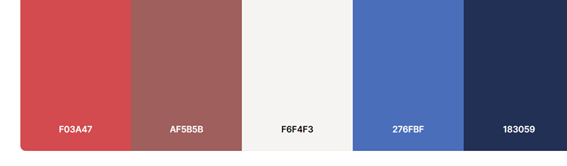
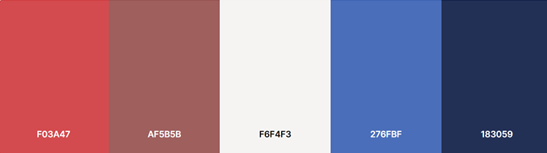
add readme file

diff --git a/README.md b/README.md
@@ -4,6 +4,7 @@ The Chuckles Comedy Club website is an information website, for a comedy club sp
 This website is designed to provide information about the comedy club such as which acts will be performing, opening hours and how to find the venue
 
 ![am-i-responsive](assets/readme-images/am-i-responsive.png)
+
 Visit the deployed site here: [Chuckles Comedy Club](<https://gkicks.github.io/chuckles-comedy-club/>)
 
 # Contents
@@ -84,3 +85,364 @@ Chuckles Comedy Club is a venue where the USP is that the performers are all Ame
 * I began with a colour pallette from the website Coolors that reflected these colours: 
 
 ![Coolers red to blue nine colour image](assets/readme-images/coolers-img-1.png)
+
+* I wanted the white to be an off white, to make the website easier on the eye, so again chose a colour from the coolers website. I took this from another red / blue pallette so this would compliment the red and blue shades already chosen
+
+![Coolers red to blue five colour image](assets/readme-images/coolers-img-2.png)
+
+## Typography
+
+* I used Fontjoy, a font pairing website, to help me make font choices. I selected Kalam, a cursive font, as I felt that reflected the comedy theme. This font was only used for the logo and submit button as I wanted simpler fonts throughout the rest of the website – I chose Biryani and Tinos as these fonts
+
+![fonjoy screenshot](assets/readme-images/fontjoy.png)
+
+* To give interest to the social media links I took icons from the website https://fontawesome.com/icons 
+
+## Imagery
+
+### Favicon
+
+* I created the favicon from the website https://www.favicon.cc
+
+![favicon](assets/readme-images/favicon.png)
+
+* I wanted the favicon to be an image of the American flag, both to refelct the USP of the venue and the colours used throughout the website
+* The images of the American flag I found were too detailed to use as a favicon so, I chose to create my own, to create a simple image
+
+### Hero Image
+
+* I found this image on the website pixabay.com
+* The original image had the word ‘comedy’ in neon green letters. The did not match the colour scheme of the website so I cropped this part of the image out
+
+### Map
+
+* I used the website https://www.maps.ie/create-google-map/ to generate a map of the location of the club and to create an iframe to embed in my index.html page
+
+### Comedian and Flag Images
+
+* These  images were all found on the website https://unsplash.com/. 
+
+All images were converted to .webp format to reduce file size and therfore speed up loading times
+
+## Wireframes
+
+* Wireframes were created using figma.com
+
+### Desktop
+
+#### Index.html
+
+![wireframe screenshot for index.html](assets/readme-images/wireframe-index-desktop.png)
+
+#### Whatson.html
+
+![wireframe screenshot for whatson.html](assets/readme-images/wireframe-whatson-desktop.png)
+
+#### Signup.html
+
+![wireframe screenshot for signup.html](assets/readme-images/wireframe-sighup-desktop.png)
+
+View desktop wireframes on the Figma site: [Desktop](https://www.figma.com/file/g8UMWjEqGGzqNK4ILENLc6/chuckles-desktop?type=design&node-id=5%3A134&mode=design&t=R67yqhAAFlnPz3b1-1) 
+
+### Mobile
+
+![wireframe screenshot for mobile website](assets/readme-images/wireframe-mobile.png)
+
+View mobile wireframes on the Figma site: [Mobile](https://www.figma.com/file/rPmex36OVOWyKsoamizYnI/Untitled?type=design&node-id=1%3A68&mode=design&t=vhfg9gbQQrPA39VQ-1)
+
+# Features
+
+## Existing Features
+
+### The Navigation Bar
+
+* The navigation bar features on all three pages of the Chuckles Comedy Club website. It includes links to the home, what’s on and signup pages as well as links to the address and opening hours sections of the home page. The navigation bar also features a logo which will direct the user back to the home page
+* The navigation bar is identical on each individual page to support the cohesiveness of the website
+* The navigation is fully responsive and allows the user to easily navigate throughout the website
+* Each navigation item includes an aria-label to improve accessibility for those using assistive technology
+
+![Screenshot od navigation bar](assets/readme-images/navbar.png)
+
+### The Landing Page
+
+* The landing page includes a hero image of a microphone in front of a brick wall. There are text boxes, overlaying the image, which contain the name of the club and a slogan explaining the unique selling point of the club. When the user first lands on the website the colour of these boxes switches. This draws the user’s eye to this important information as well as giving some interest to the page
+
+![Landing Page Screenshot](assets/readme-images/hero-image.png)
+
+### Information Section
+
+* The information section gives the user the address (a fake address has been used) and opening hours of the club
+* It features an interactive map with a link for the user to be able to view a larger map. This opens in a new browser page which prevents the user needing to press the back button or closing the webpage in error
+
+![Information bar screenshot](assets/readme-images/information.png)
+
+### Footer
+
+* The footer features on all three main pages of the website as well as the thank you page following the user completing the signup form
+* The footer contain links to the social media sites Facebook, Twitter and Instagram. Chuckles Comedy Club currently doesn’t have social media pages but, once these are created, the links will link to these
+* The styling of the footer reflects that of the header to simplify the user experience
+* Each footer item have an aria link to improve accessibility for those using assistive technology
+
+![Footer screenshot](assets/readme-images/footer.png)
+
+### Whats On
+
+* The What’s On page shows the user the acts that will be performing the coming weekend
+* There are three performers shown each night and each performer is shown with their name (fake names used), photo and a short audio clip of their stand-up routine
+
+![What's on screenshot](assets/readme-images/whatson.png)
+
+### Sign Up
+
+* The Sign Up page allows users to sign up to receive emails and special offers for upcoming events
+* The background image used is an American flag to symbolise the nationality of the comics performing
+* There are three input fields for the user to enter their forename, surname and email address. These have aria-labels to improve accessibility for those users using assistive technology
+* All three inputs require data to be entered before allowing the user to submit the form. The email input requires the data to be entered in the form of an email address
+* There is also a select dropdown box that would be used to collect data, for the comedy club, to be able to pinpoint where to focus their marketing strategy
+
+![Sign up screenshot](assets/readme-images/signup.png)
+
+### Thankyou
+
+* The thank you page is displayed when the sign up form is submitted. This gives the user confirmation that their request has been received
+* The thankyou page informs the user that they will be redirected back to the home page in five seconds and also gives the option to press a ‘return to home’ button to return to the index.html page
+
+![Thankyou screenshot](assets/readme-images/thankyou.png)
+
+## Future Implications
+
+* The functionality to be able to purchase tickets, to performances, through the website
+* More information about venue facilities – i.e., food and drink menus, disability access
+* Search function to allow users to search the website
+* A FAQ page to be added
+
+## Accessibility
+
+* All pages use semantic html
+* Aria-labels were used to improve accessibility for those using assistive technology
+* I used the Google Chrome extensions:
+    * Wave Evaluation Tool – no errors were detected
+    * Web Disability Simulator – simulated the website for people with sight, mobility, reading and writing and concentration disabilities to view the webpage how others could see it. There were no concerns noted in these simulations
+    * Screen Reader – Simulated how the website experience would be for a user using a screen reader. There were no concerns noted using this simulation
+    * I used https://webaim.org/resources/contrastchecker/ to check the contrasts of the colours chosen. This passed for both combinations of red and white (contrast ratio 7
+.62:1) and blue and white (contrast ratio 12.82:1). This failed for the blue and red combination (contrast ratio 1.68:1) so this was not used in the website
+
+# Technologies Used
+
+## Languages Used
+
+HTML, CSS were mainly used to create this website. I used a small section of JavaScript code to resolve a bug in the audio
+
+## Frameworks, libraries and programs used
+
+* Am I Responsive? To show the website image on a range of devices
+* Clideo - To convert audio clips to MP3
+* Codeanywhere – To write the code
+* Compress2go - To compress images to reduce file size
+* Convertio - To change images to webp format
+* Faviconcc - To create favicon
+* Figma – To create wireframes
+* Font Awesome - For the iconography on the social media links
+* Github - To save and store files
+* Google Dev Tools – Used to troubleshoot and debug
+* Google Fonts - To import the fonts used on the website
+* Spotify – The library my audio clips were taken from
+
+# Deployment and Local Development
+
+## Deployment
+
+This site is deployed using Github pages:
+
+* *Sign up and login to GitHub
+* Find the GitHub repository https://github.com/Gkicks/chuckles-comedy-club.git
+* Click “settings”
+* In the lefthand navigation panel locate and click “pages”
+* Change the branch from “none” to “main”
+* Click “save”
+* The website will then be deployed. This process my take a few minutes and then “your site is live at …” will appear towards the top of the page
+
+## Local Development
+
+### How to Fork
+
+* Sign up and login to GitHub
+* Find the GitHub repository https://github.com/Gkicks/chuckles-comedy-club.git
+* Locate the “fork” button which is located towards the top of the page. Click this button
+
+### How to Clone
+
+* Sign up and login to GitHub
+* Find the GitHub repository https://github.com/Gkicks/chuckles-comedy-club.git
+* Locate the “<> Code” button and click this. This will bring up a new panel
+* Click the local tab
+* Decide if you would like to clone with HTTPS, SSH or GitHub CLI – copy the link shown under the one of your choosing
+* Open your code editor 
+* Open a new terminal in your code editor and change the working directory to the location you want to use for the clone directory (you can use the cd command to change directories)
+* When you are in your chosen directory type “git clone” followed by pasting in the URL you copied in GitHub
+* Press enter to execute the command and your clone will be created
+
+# Testing
+
+I tested the website in the following browsers:
+	
+* Chrome
+* Edge
+* Firefox
+
+I also used Chrome Developer tools to test how the screen looked and worked on each device screen and also used these tools to look for bugs throughout designing and building the website.
+
+I posted a link to my website in the slack channel peer-code-review, but didn’t get any comments left, so I asked friends and family to test the website on their devices. There was one concern raised from this which was that the audio elements didn’t stop playing when another audio element started. This meant that the audio could all play over each other. I fixed this by finding some lines of JavaScript code (see credits section)
+
+## WC3 Validator
+
+I ran my HTML and CSS through the WC3 Validators. These were the errors that were returned from doing this:
+
+* The validator returned that some of the code in the iframe was obsolete. I removed these parts as not needed
+
+![Iframe obsolete screenshot](assets/readme-images/iframe-obsolete.png)
+
+* WC3 validator returned that the iframe should not contain a link. I fixed this by removing the link code and the iframe still worked as it should
+
+![Iframe link screenshot](assets/readme-images/iframe-link.png)
+
+* The button on my thankyou.html page contained a link to return the user back to the home screen. The WC3 validator said a button cannot have a link. This was solved by wrapping the button in a form where the action was ‘index.html’
+
+![screenshot button link](assets/readme-images/button-thankyou.png)
+
+* There was an issue validating the code to automatically redirect the user back to the homepage, from the thankyou.html page. This was solved by adding URL= to index.html in the meta line
+
+![screenshot url index](assets/readme-images/url-index.png)
+
+* The validator showed a warning that my code lacked headings. I solved this by changing a <p> section to an <h2>
+
+![screenshot p to h2](assets/readme-images/p-h2-index.png)
+
+* There were other minor issue found, such as there being an extra </li> in my code, or a space in an id, that were resolved striaght away
+
+The website now passes all WC3 validation for each page:  
+
+![screenshot wc3 validator](assets/readme-images/wc3-validator.png)
+
+## Lighthouse
+
+I used Lighthouse, within the Chrome developer tools, to check the performance, accessibilty, SEO and best practice of the website
+
+### Index.html
+
+#### Desktop
+
+![screenshot of lighthouse for index.html desktop](assets/readme-images/lighthouse-index-desktop.png)
+
+#### Mobile
+
+![screenshot of lighthouse for index.html mobile](assets/readme-images/lighthouse-index-mobile.png)
+
+### Whatson.html
+
+#### Desktop
+
+![screenshot of lighthouse for whatson.html desktop](assets/readme-images/lighthouse-whatson-desktop.png)
+
+#### Mobile
+
+![screenshot of lighthouse for whatson.html mobile](assets/readme-images/lighthouse-whatson-mobile.png)
+
+### Signup.html
+
+#### Desktop
+
+![screenshot of lighthouse for signup.html desktop](assets/readme-images/lighthouse-signup-desktop.png)
+
+#### Mobile
+
+![screenshot of lighthouse for signup.html mobile](assets/readme-images/lighthouse-signup-mobile.png)
+
+## Bugs
+
+### Resolved Bugs
+
+* The links in the navigation bar and footer were ‘jerky’ when hovered over. This was due to a border being added when the user hovers over the link. 
+    * Solution – I added a border to all the links and gave this border the same attributes as the hover border, except the colour, which matched the background colour so it didn’t display
+* The hero image was taking a long time to download
+    * Solution – initially I added a preload instuction into the head of the html. I took this advice from the website wpspeedmatters.com/speed-up-background-images/. However, on further reasearch, I realised this wasn’t best practice and so removed this and focused on reducing the file size and converting the jpeg to webp. I also added loading=”lazy” to iframe to free up processing time for main-photo
+* The nav bar was quickly distorting on smaller screens
+    * Solution – I changed the display to flex
+* There was an area of blank screen to the right side of each page
+    * Solution – I added overflow-x: hidden to the body and html, using css
+* Pressing the ‘submit’ button in signup.html was not taking the user to the thankyou.html page
+    * Solution - Following discussion with my mentor I removed method:post (this is only needed if there is a backend database in place)
+* The border, on the select element of signup.html, was turning black when the option was changed
+    * Solution – I changed the border to an outline, following advice from the website https://stackoverflow.com/questions/492627/change-border-color-on-select-html-form
+* Although the background image, on the signup.html page, was loading from app.codeacademy this was not loading on the deployed site
+    * Solution - With help from Tutor Support I found there was a / in front of asset, in my filepath, that shouldn’t have been there. This was removed
+* The audio elements were playing over each other
+    * Solution – I copied JavaScript code from the website https://stackoverflow.com/questions/19790506/multiple-audio-html-auto-stop-other-when-current-is-playing-with-javascript
+
+### Unresolved Bugs
+
+None thatI know of
+
+# Credits
+
+## Code Used
+
+1. 
+        document.addEventListener('play', function (e) {
+            var audios = document.getElementsByTagName('audio');
+            for (var i = 0, len = audios.length; i < len; i++) {
+                if (audios[i] != e.target) {
+                    audios[i].pause();
+                }
+            }
+        }, true);
+
+This code was taken from the website <https://stackoverflow.com/questions/19790506/multiple-audio-html-auto-stop-other-when-current-is-playing-with-javascript> and was used for the audio elements so that, when another audio was played, the current one playing would stop
+
+1. 
+
+![Screenshot of code used for automatic redirect](assets/readme-images/credit-auto-redirect-thankyou.png)
+
+I adapted this code, from the website <https://www.tutorialspoint.com/How-to-automatically-redirect-a-Web-Page-to-another-URL> to automatically divert the user from the page thankyou.html, to index.html, after five seconds
+
+## Content
+
+All content was written by Gail Kicks
+
+## Media
+
+All photos were taken from the websites unsplash.com and pixabay.com
+The audio clips were taken from Spotify. I converted these to MP3 using clideo.com
+
+The comedians used for my audio clips were:
+
+* John Mulaney – Don Delaney
+* Roni Dove – Loni Love
+* Tim Hannigan – Jim Gaffigan
+* Hayley Wilkinson – Taylor Tominson
+* Tammy Curham – Jen Kirkman
+* Nathan Garzee – Nate Bargatze
+
+## Other
+
+I used the following resources to expand my knowledge of html and css:
+	
+* The Code Institute lessons, including the LoveRunning project
+* The Ultimate 2023 Fullstack Web Developer Bootcamp on Udemy
+* webdesign.tutsplus.com
+* developer.mozilla.org
+* stackoverflow.com
+* wpspeedmatters.com
+* w3schools.com
+* csstricks.com
+* Code Institute’s Slack community
+
+## Acknowledgements
+
+I would like to acknowledge the following people for their help in completing my project:
+
+* My mentor, Graeme Taylor, for his advice and ideas
+* My family and friends for helping me during the testing stages
+* The Tutor Support team at Code Institute
+* The Code Institute Slack community
+* Kera Cudmore for her fantastic README presentation
